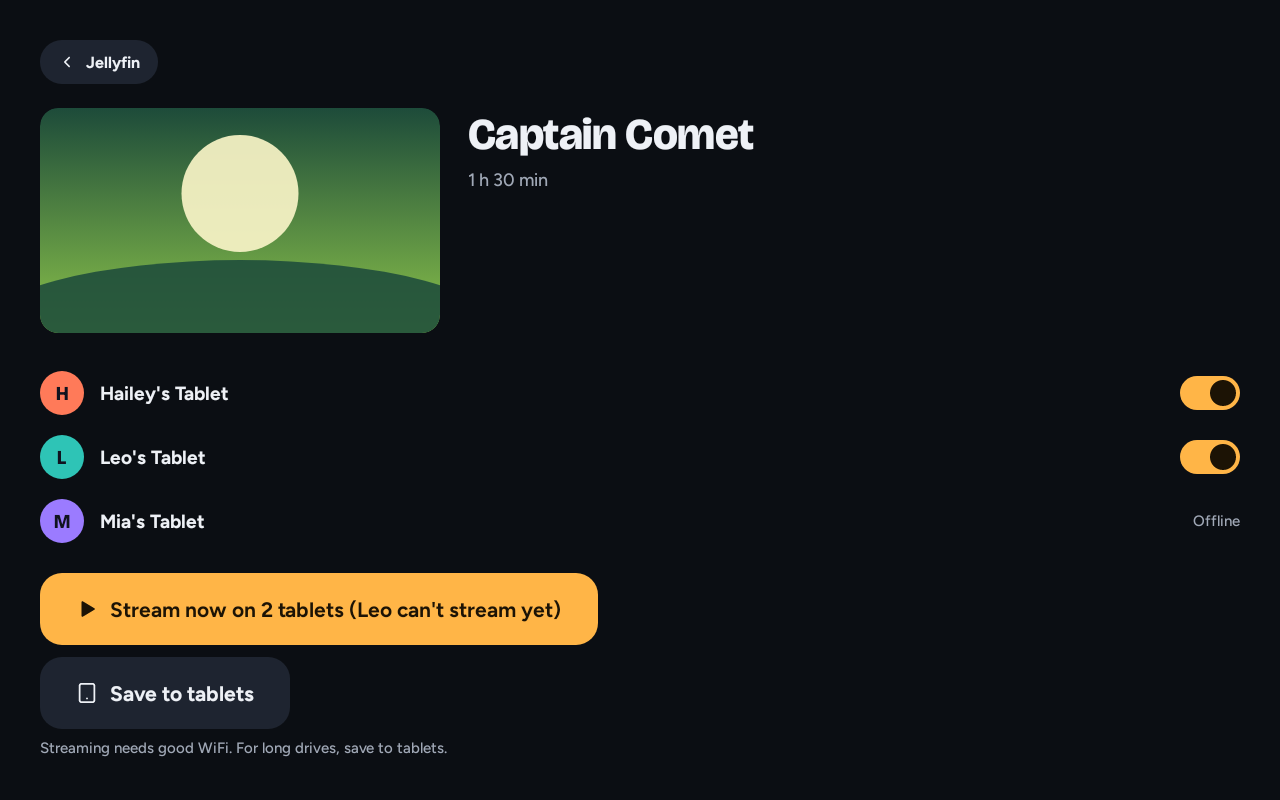
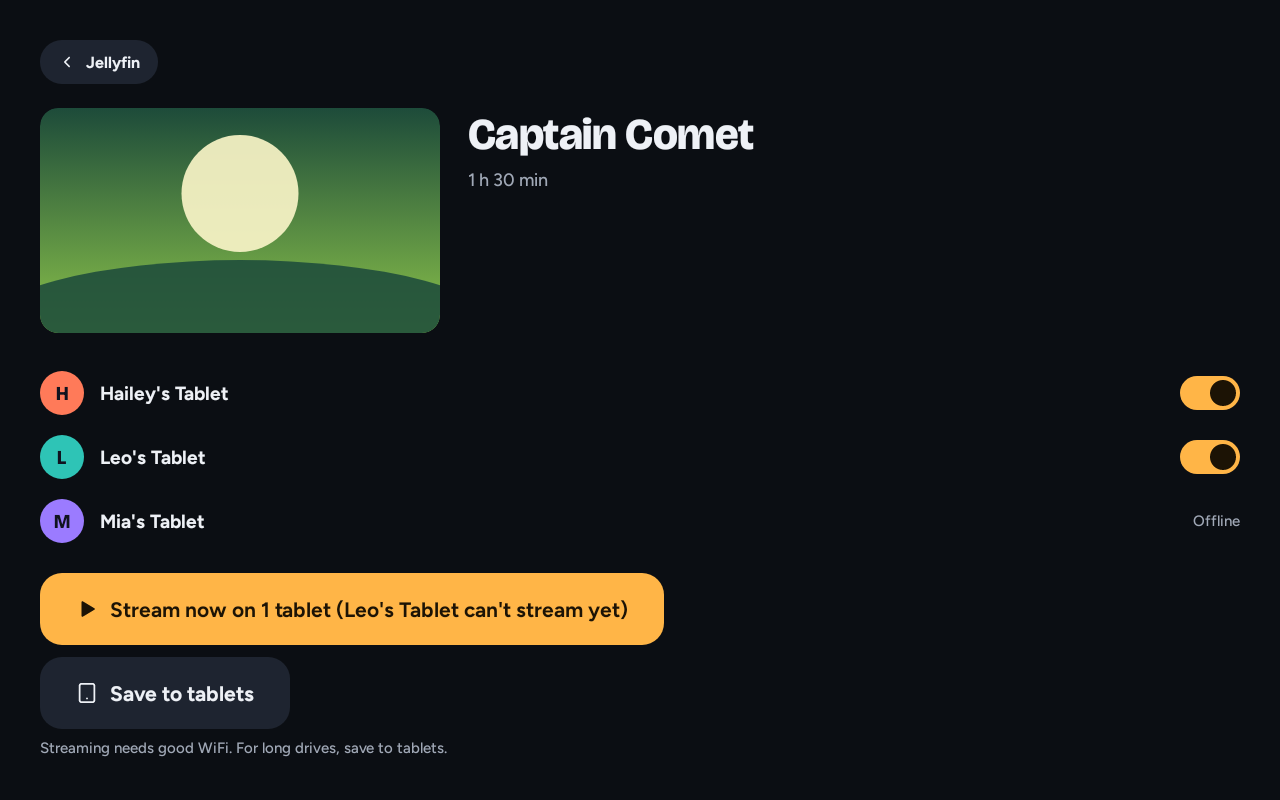
Stream together: stale reports can't drop a tablet, error text never published
Written by claude2, committed by the foreman.

Changed region(s): [[0.1875, 0.7188, 0.5312, 0.8125]]

diff --git a/app/src/main/java/com/nbaltas/nickos/master/SyncController.kt b/app/src/main/java/com/nbaltas/nickos/master/SyncController.kt
@@ -59,9 +59,10 @@ data class StreamFail(val id: String, val code: String, val fid: String, val tit
         const val AUTH = "auth"
         const val UNSUPPORTED = "unsupported"
         const val TIMEOUT = "timeout"
-        val CODES = setOf(CANT_REACH, AUTH, UNSUPPORTED, TIMEOUT)
-        /** Anything else a tablet says is read as a format problem. */
-        fun clean(code: String?): String = if (code in CODES) code!! else UNSUPPORTED
+        const val OTHER = "other"
+        val CODES = setOf(CANT_REACH, AUTH, UNSUPPORTED, TIMEOUT, OTHER)
+        /** Anything a tablet says that is not one of the fixed codes becomes [OTHER]; its own words are never kept. */
+        fun clean(code: String?): String = if (code != null && code in CODES) code else OTHER
     }
 }
 
@@ -249,18 +250,23 @@ class SyncController(private val port: MasterPort, private val clock: () -> Long
                 lastAnchor = now - REANCHOR_MS + ADOPT_SETTLE_MS // pull everyone onto one line shortly
             }
             if (msg.fid != s.fid) return // still on the previous movie; the new plan is on its way
+            // A report made before the last start or seek (on the tablet's clock, mapped to ours) is from the old line.
+            val off = clocks[id]?.offset
+            val stale = off != null && msg.at - off < genAt
+            // For a stream, an old report of any kind (even ERROR or STOPPED) must not touch the current session.
+            if (s.streaming && stale) return
             if (id !in s.nodes) {
                 if (!joinable) return
                 s = s.copy(nodes = s.nodes + id)
                 _session.value = s
             }
-            _states.update { it + (id to NodeSyncState(st, pos, msg.at, dur, msg.rate, msg.err?.take(40), now)) }
+            // What a tablet says about an error is never kept as it came: only a fixed code (or "missing") gets through.
+            val err = if (s.streaming) StreamFail.clean(msg.err).takeIf { msg.err != null } else msg.err.takeIf { it == "missing" }
+            _states.update { it + (id to NodeSyncState(st, pos, msg.at, dur, msg.rate, err, now)) }
             if (dur > 0 && s.durMs <= 0) _session.value = s.copy(durMs = dur)
             // A tablet that failed or left is taken out below, which also lets the group go on without it.
             if (wait.enabled && st != SyncState.ERROR && st != SyncState.STOPPED && st != SyncState.ENDED) {
-                // A report made before the last start or seek (on the tablet's clock, mapped to ours) is from the old line.
-                val off = clocks[id]?.offset
-                val gen = if (off != null && msg.at - off < genAt) wait.gen - 1 else wait.gen
+                val gen = if (stale) wait.gen - 1 else wait.gen
                 act(wait.report(id, st, now, gen), now)
             }
             when (st) {
@@ -270,7 +276,7 @@ class SyncController(private val port: MasterPort, private val clock: () -> Long
                         val f = StreamFail(id, StreamFail.clean(msg.err), s.fid, s.title)
                         _failed.update { it + (id to f) }
                         port.say(TogetherText.streamError(kid(id), f.code))
-                    } else port.say("${kid(id)}: ${TogetherText.error(msg.err)}")
+                    } else port.say("${kid(id)}: ${TogetherText.error(err)}")
                     drop(id)
                 }
                 SyncState.STOPPED -> drop(id)

diff --git a/app/src/test/java/com/nbaltas/nickos/sync/StreamControllerTest.kt b/app/src/test/java/com/nbaltas/nickos/sync/StreamControllerTest.kt
@@ -282,11 +282,59 @@ class StreamControllerTest {
     }
 
     @Test
-    fun `an unknown error text is read as unsupported and never kept`() {
+    fun `an unknown error text is read as other and never kept`() {
         playBoth()
         report(L, SyncState.ERROR, 0, err = "http://192.168.1.5/x?api_key=$token")
-        assertEquals("unsupported", c.failed.value.getValue(L).code)
+        assertEquals("other", c.failed.value.getValue(L).code)
         assertTrue(port.said.none { it.contains(token) || it.contains("192.168") })
+    }
+
+    @Test
+    fun `error text on a buffering or playing report never reaches the states`() {
+        playBoth()
+        val leak = "http://192.168.1.5/x?api_key=$token"
+        report(L, SyncState.BUFFERING, 100, err = leak)
+        assertTrue(c.states.value.values.none { it.err?.contains(token) == true || it.err?.contains("192.168") == true })
+        assertEquals("other", c.states.value.getValue(L).err)
+        report(H, SyncState.PLAYING, 100, err = "cant_reach")
+        assertEquals("cant_reach", c.states.value.getValue(H).err)
+        report(H, SyncState.PLAYING, 100, err = leak)
+        assertEquals("other", c.states.value.getValue(H).err)
+    }
+
+    @Test
+    fun `an old error stopped or ended report after a seek does not drop a tablet`() {
+        for (st in listOf(SyncState.ERROR, SyncState.STOPPED, SyncState.ENDED)) {
+            playBoth()
+            val staleAt = now - 10_000
+            c.seek(30_000)
+            c.onMessage(L, SyncMessages.encodeSyncState(fid, st.wire, 800, staleAt - 3000, 600_000, 1f, "cant_reach"))
+            assertEquals("$st", setOf(H, L), c.session.value!!.nodes)
+            assertTrue("$st", c.failed.value.isEmpty())
+        }
+    }
+
+    @Test
+    fun `an old error report after a restart of the same stream does not drop a tablet`() {
+        playBoth()
+        val staleAt = now - 10_000
+        c.start(fid, "Star Harbour", 600_000, setOf(H, L), url)
+        c.onMessage(L, SyncMessages.encodeSyncState(fid, "error", 0, staleAt - 3000, 600_000, 1f, "cant_reach"))
+        assertEquals(setOf(H, L), c.session.value!!.nodes)
+        assertTrue(c.failed.value.isEmpty())
+        report(L, SyncState.ERROR, 0, err = "cant_reach") // a current one still drops it
+        assertEquals(setOf(H), c.session.value!!.nodes)
+    }
+
+    @Test
+    fun `an old buffering report does not change the states`() {
+        playBoth()
+        report(L, SyncState.PLAYING, 500)
+        val before = c.states.value.getValue(L)
+        val staleAt = now - 10_000
+        c.seek(30_000)
+        c.onMessage(L, SyncMessages.encodeSyncState(fid, "buffering", 9, staleAt - 3000, 600_000, 1f))
+        assertEquals(before, c.states.value[L])
     }
 
     @Test

diff --git a/app/src/test/java/com/nbaltas/nickos/DesignScreensTest.kt b/app/src/test/java/com/nbaltas/nickos/DesignScreensTest.kt
@@ -502,9 +502,12 @@ class DesignScreensTest {
         addStatus("cccccccccccc", 23)
         shot("Together-Jellyfin-Stream") {
             val nodes = rememberNodeViews()
-            val stream = JfStreamUi(2, JfTogether.streamLabel(2, listOf("Leo")), onStream = {})
+            // Hailey can stream, Leo's tablet is too old; the count and label come from the same split the screen uses.
+            val selected = nodes.filter { it.online }.map { it.node.id }.toSet()
+            val (ok, no) = JfTogether.streamSplit(selected) { id -> nodes.first { it.node.id == id }.node.name.startsWith("Hailey") }
+            val stream = JfStreamUi(ok.size, JfTogether.streamLabel(ok.size, no.map { id -> nodes.first { it.node.id == id }.node.name }), onStream = {})
             JfPickContent(
-                jfMovie(), nodes, nodes.filter { it.online }.map { it.node.id }.toSet(), { _, _ -> },
+                jfMovie(), nodes, selected, { _, _ -> },
                 prep = null, note = null, onBack = {}, onPrimary = {}, stream = stream,
             )
         }

diff --git a/app/src/test/java/com/nbaltas/nickos/sync/StreamTest.kt b/app/src/test/java/com/nbaltas/nickos/sync/StreamTest.kt
@@ -125,9 +125,10 @@ class StreamTest {
         assertTrue(StreamFail("a", "timeout", "jf:x:I", "Star").canSaveInstead)
         assertFalse(StreamFail("a", "unsupported", "jf:x:I", "Star").canSaveInstead)
         assertFalse(StreamFail("a", "auth", "jf:x:I", "Star").canSaveInstead)
-        assertEquals("unsupported", StreamFail.clean("http://leak/api_key=1"))
+        assertEquals("other", StreamFail.clean("http://leak/api_key=1"))
         assertEquals("cant_reach", StreamFail.clean("cant_reach"))
-        assertEquals("unsupported", StreamFail.clean(null))
+        assertEquals("unsupported", StreamFail.clean("unsupported"))
+        assertEquals("other", StreamFail.clean(null))
     }
 
     @Test
